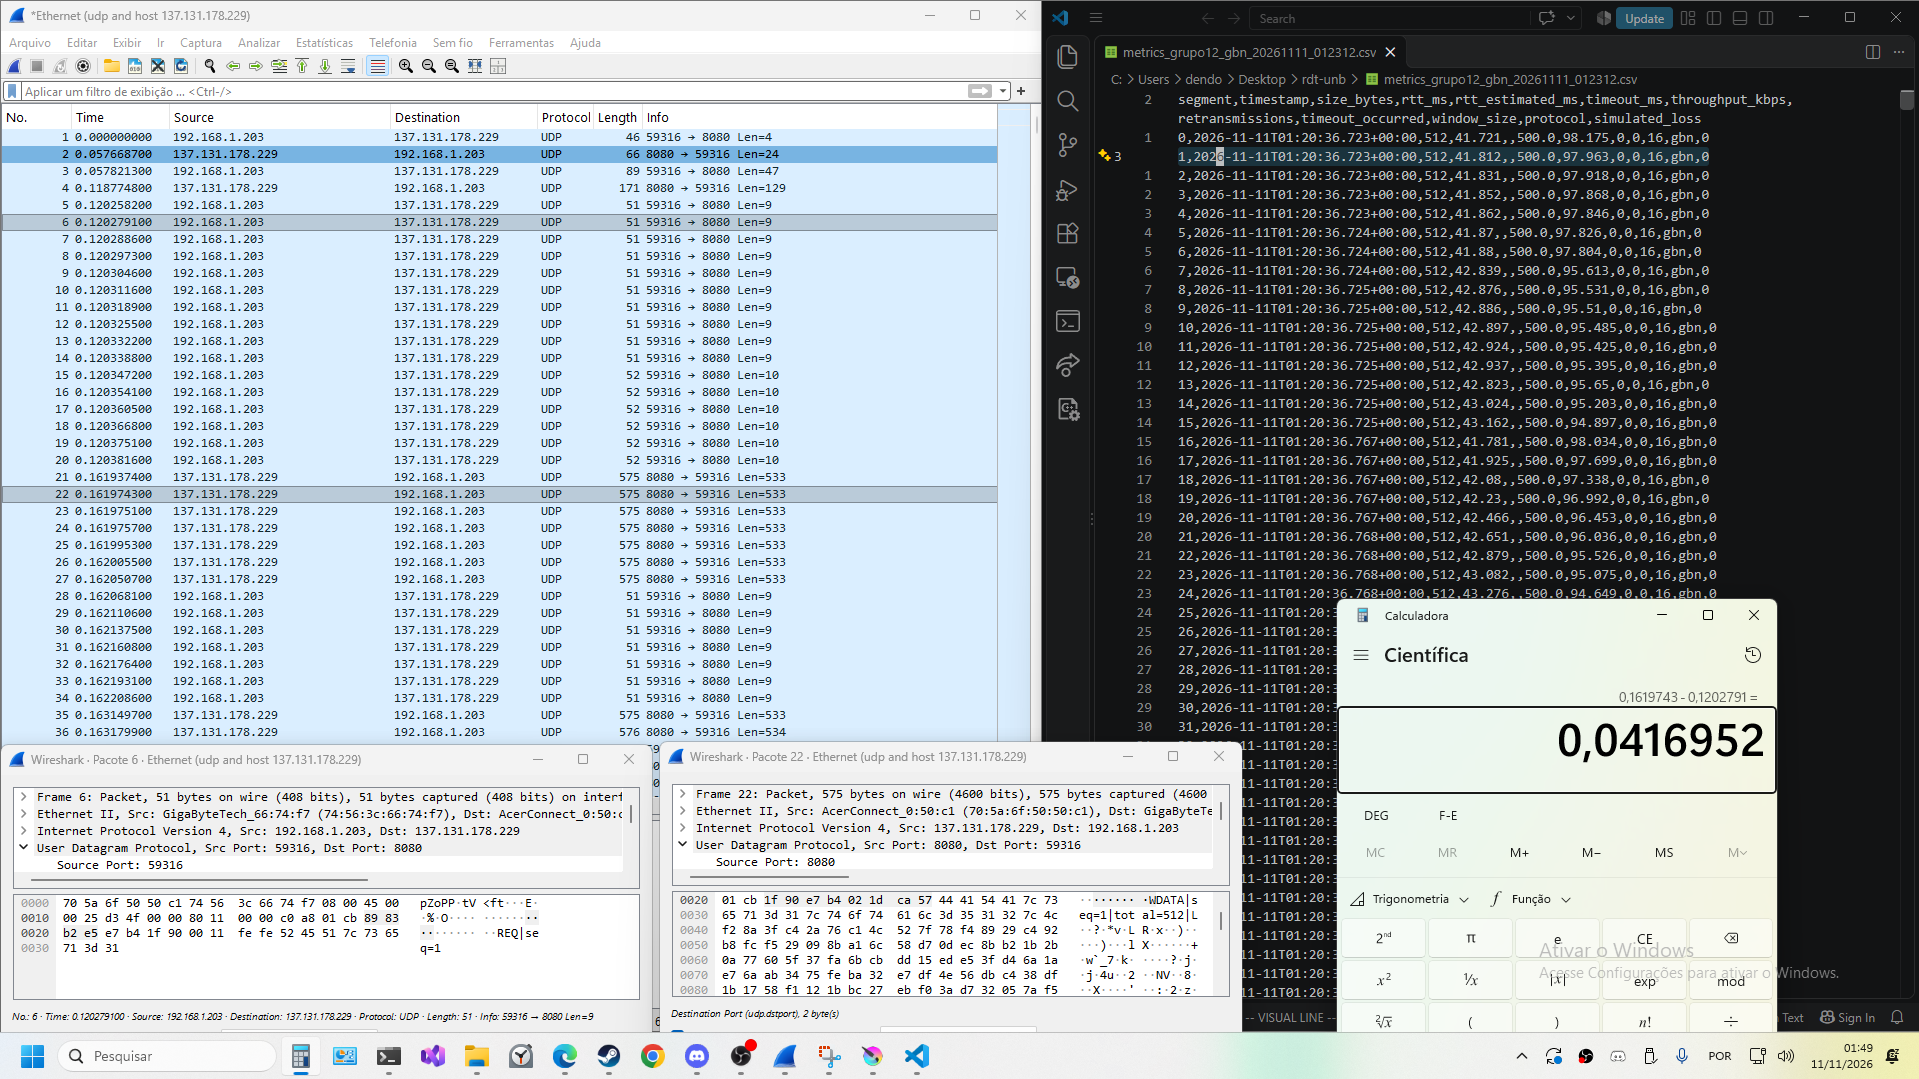
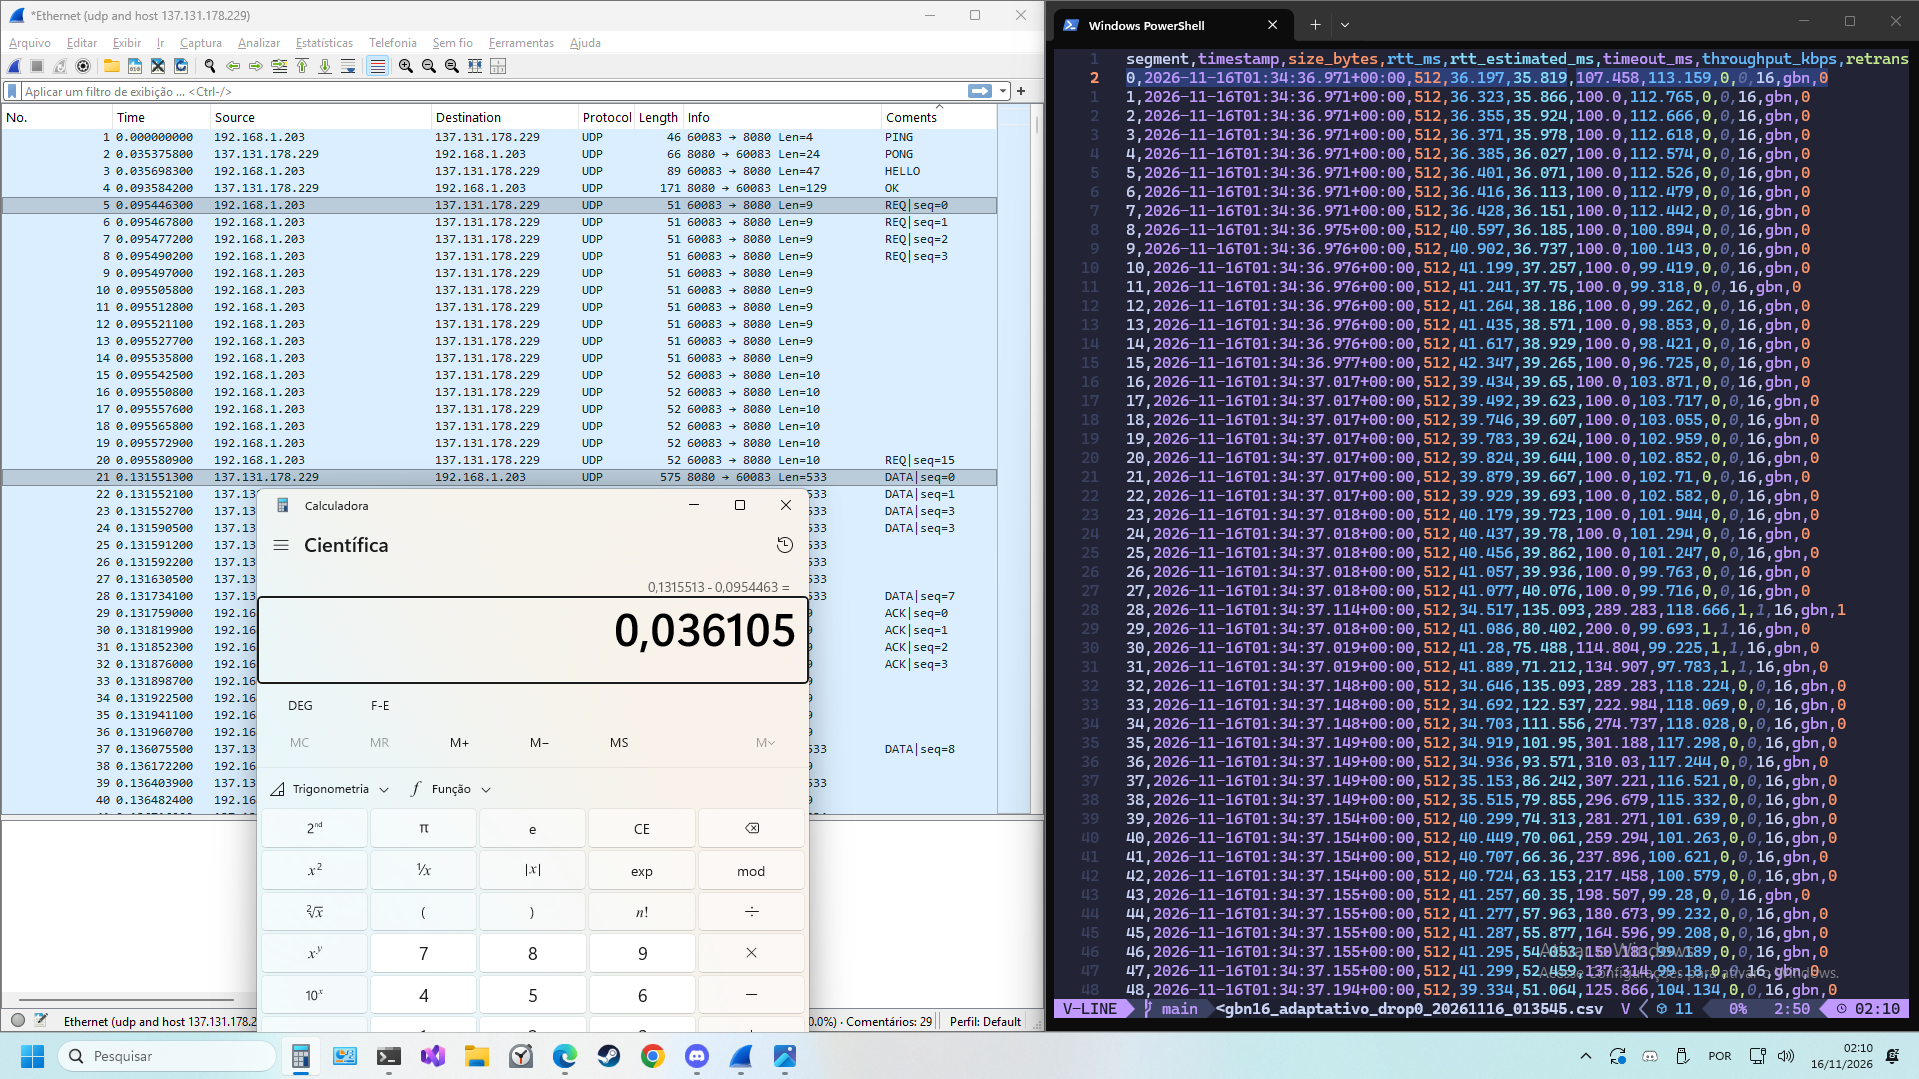
correcao wireshark

diff --git a/docs/relatorio 3/relatorio 3.tex b/docs/relatorio 3/relatorio 3.tex
@@ -260,33 +260,34 @@ maior RTT da rede. Nesse cenário os dois modos têm desempenho praticamente igu
 Foi registrado no Wireshark, uma transferência usando o RTT Adaptativo usando o
 GBN com uma janela de tamanho 16 na transferência do arquivo large. 
 É sugerido ao leitor usar a feramenta de zoom de seu leitor de pdf devido a densidade de informação das imagens.
+Foi utilizado a função de comentários do wireshark para rotular alguns dos pacotes.
 
 \begin{figure}[H]
 \centering
 \includegraphics[width=0.9\linewidth]{imagens/wireshark_inicio.png}
-\caption{Inicio da transferência no wireshark}
+\caption{Inicio da transferência no wireshark.}
 \label{fig:wire_inicio}
 \end{figure}
 
 \begin{figure}[H]
 \centering
 \includegraphics[width=0.9\linewidth]{imagens/wireshark_final.png}
-\caption{Final da transferência}
+\caption{Final da transferência. Nota-se o pacote DONE retornando ok=1 significando sucesso.}
 \label{fig:wire_final}
 \end{figure}
 
 \begin{figure}[H]
 \centering
 \includegraphics[width=0.9\linewidth]{imagens/wireshark_retransmissao.png}
-	\caption{Situação de retransmissão. Em destaque, está a primeira solicitação e a segunda. Entre elas, ouve um timeout de \SI{512}{\milli\second}}
+	\caption{Situação de retransmissão. Em destaque, está a primeira solicitação e a segunda. Entre elas, ouve um timeout de \SI{101}{\milli\second}.}
 \label{fig:wire_retra1}
 \end{figure}
 
 \begin{figure}[H]
 \centering
 \includegraphics[width=0.9\linewidth]{imagens/wireshark_csv.png}
-\caption{Uma requisição no Wireshark e no CSV mostrado lado a lado. Estão em destaque o pacote REQ e DATA, e também a linha do CSV respectiva. O cálculo do
-	RTT usando o wireshark resultou em \SI{41.6}{\milli\second} e o CSV registrou \SI{41.8}{\milli\second}. A diferença se dá ao fato de que o
+\caption{Uma requisição no Wireshark e no CSV mostrado lado a lado. Estão em destaque o pacote REQ e DATA do seq=0, e também a linha do CSV respectiva. O cálculo do
+	RTT usando o wireshark resultou em \SI{36.1}{\milli\second} e o CSV registrou \SI{36.2}{\milli\second}. A diferença se dá ao fato de que o
 	wireshark captura o pacote antes do programa em si ter acesso, fazendo-o ter uma leve vantagem em relação ao cliente.}
 \label{fig:wire_csv}
 \end{figure}
